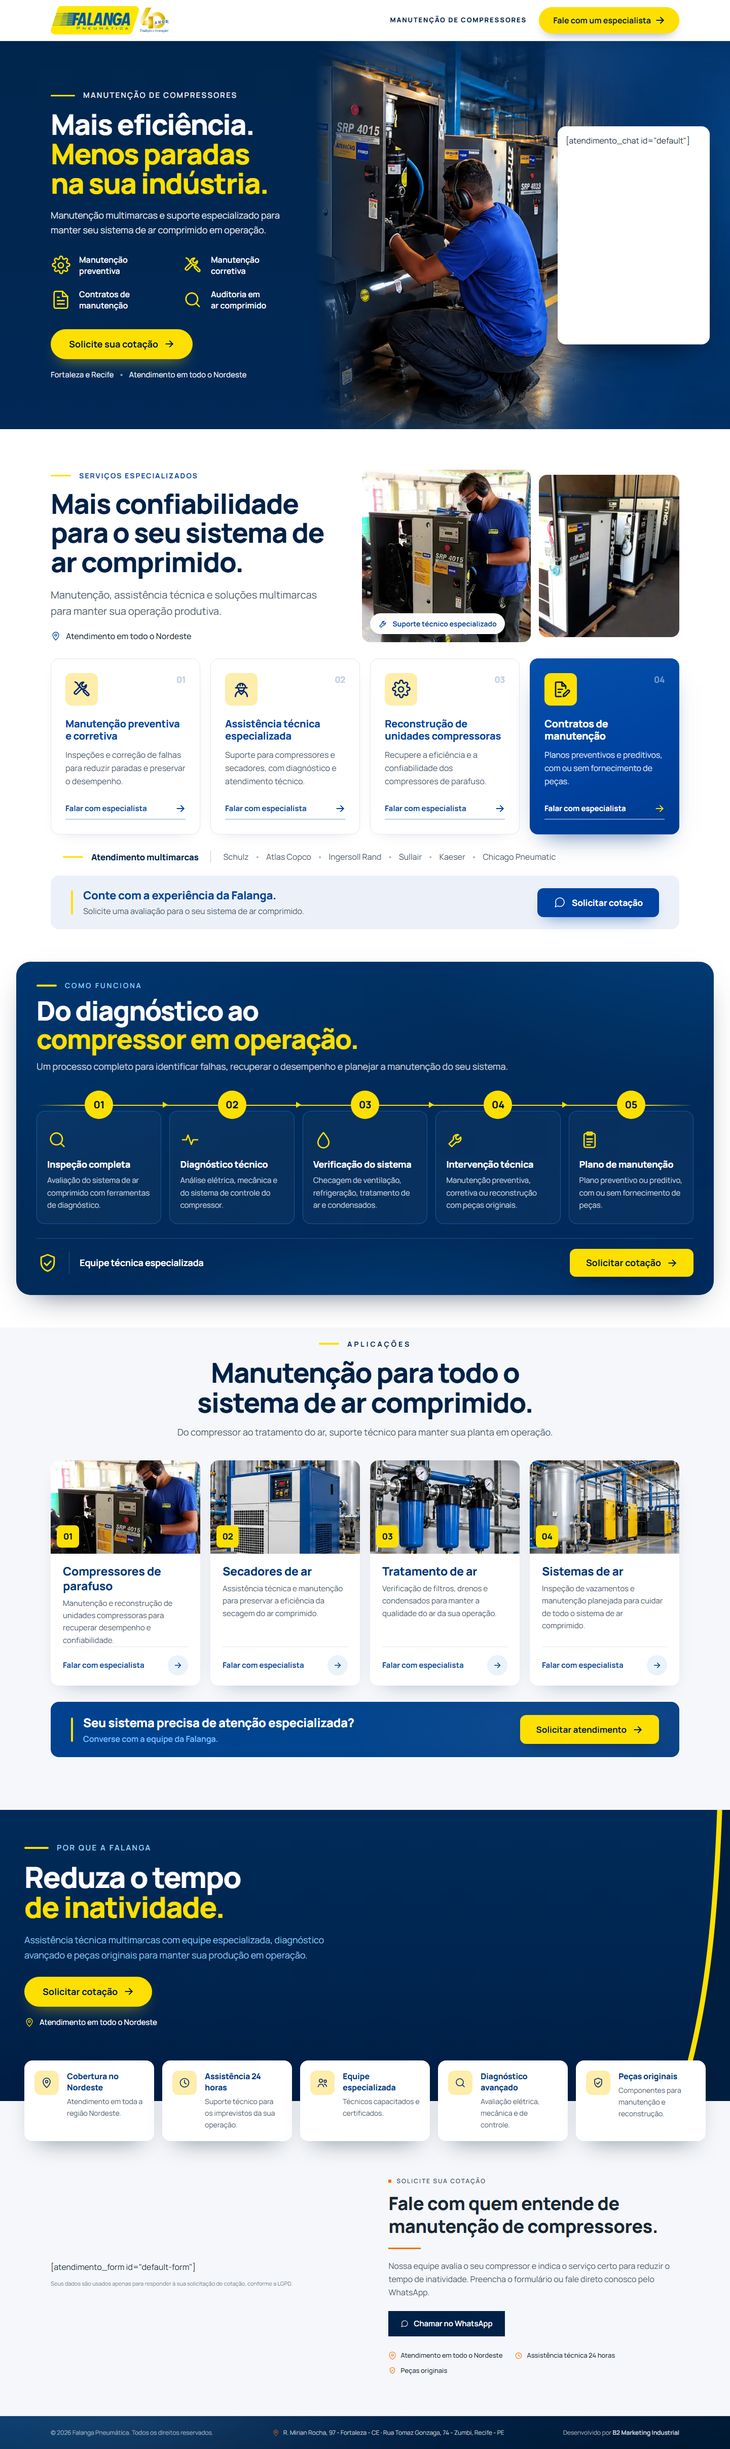
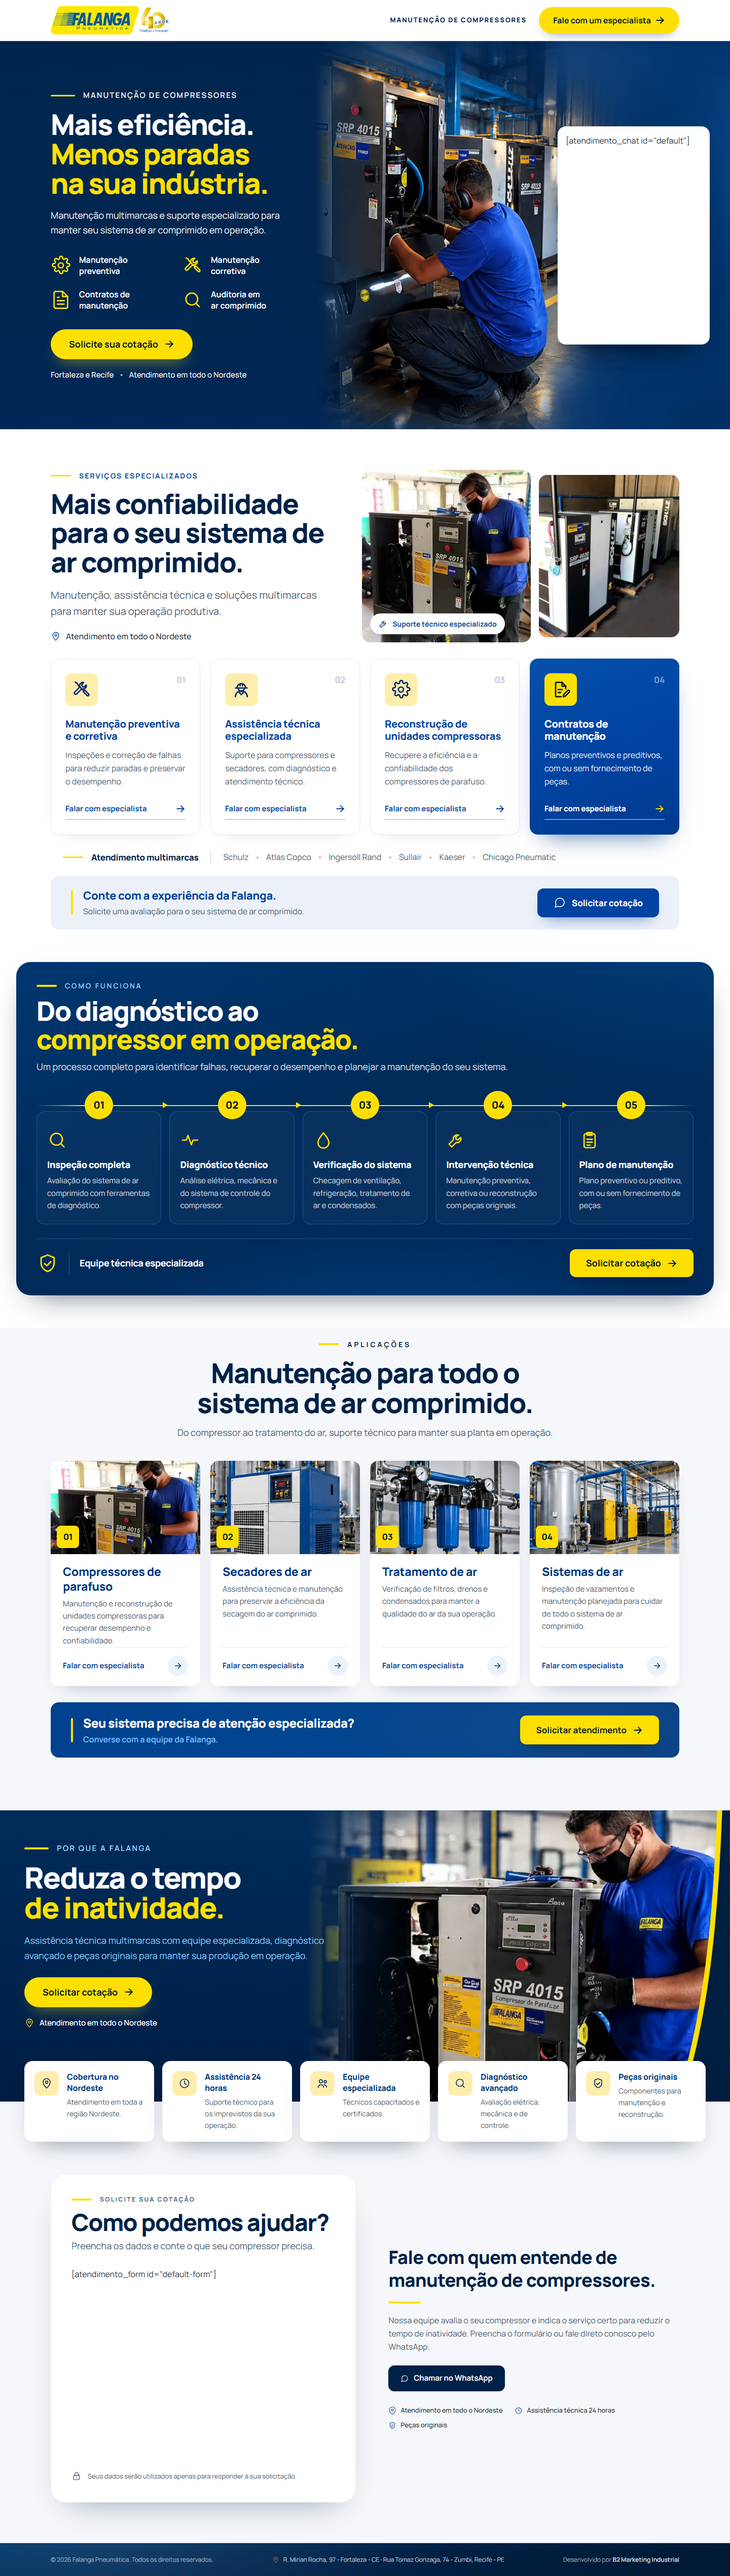
feat: card de cotação conforme o mockup, com o espaço do formulário vazio
A coluna do formulário vira um card branco com "Solicite sua cotação", "Como
podemos ajudar?", o subtítulo e a nota com cadeado. O espaço do formulário
fica vazio, só com o shortcode que o plugin do WordPress troca pelo
formulário, como pedido. A coluna de texto perde o selo repetido e passa às
cores da Falanga. Grid, ordem e cotacao-whatsapp seguem os do padrão.

diff --git a/src/data/content.ts b/src/data/content.ts
@@ -90,13 +90,22 @@ export const quote = {
     { icon: 'clock', label: 'Assistência técnica 24 horas' },
     { icon: 'shield', label: 'Peças originais' },
   ],
+  /**
+   * Cabeçalho do card do formulário (mockup do cliente, 21/10/2026). O `eyebrow` acima
+   * vai no card, e não mais na coluna de texto, para não aparecer duas vezes lado a lado.
+   */
+  form: {
+    title: 'Como podemos ajudar?',
+    text: 'Preencha os dados e conte o que seu compressor precisa.',
+  },
   /** Nota de LGPD exibida abaixo do formulário. */
-  lgpd: `Seus dados são usados apenas para responder à sua solicitação de cotação, conforme a LGPD.`,
+  lgpd: `Seus dados serão utilizados apenas para responder à sua solicitação.`,
 } as const satisfies {
   eyebrow: string
   title: string
   text: string
   trust: readonly [TrustItem, TrustItem, TrustItem]
+  form: { title: string; text: string }
   lgpd: string
 }
 

diff --git a/src/data/icons.ts b/src/data/icons.ts
@@ -64,6 +64,8 @@ export const iconPaths = {
   /** Escudo com check: selo de equipe especializada (mockup Falanga, 21/10/2026). */
   'shield-check':
     '<path d="M12 3 19 5.8v5.6c0 4.5-3 7.8-7 9.3-4-1.5-7-4.8-7-9.3V5.8Z"/><path d="m8.7 12.2 2.4 2.4 4.3-4.5"/>',
+  /** Cadeado: nota de privacidade do formulário (mockup Falanga, 21/10/2026). */
+  lock: '<rect x="5" y="10.5" width="14" height="10" rx="2"/><path d="M8 10.5V7.5a4 4 0 0 1 8 0v3M12 14.5v2"/>',
   clock: '<circle cx="12" cy="12" r="8.5"/><path d="M12 7v5.2l3.5 2"/>',
   zap: '<path d="M13 3 6 13.5h5L10 21l7.5-10.5h-5L13 3Z"/>',
   'map-pin':

diff --git a/docs/BRIEFING.md b/docs/BRIEFING.md
@@ -233,6 +233,18 @@ Junto, dois ajustes:
 - O `npm run ficha` voltou a aceitar ícones com hífen (`map-pin`, `shield-check`). A correção da regex tinha saído junto com a reversão anterior.
 - As setas que rolam os cards no mobile passaram a funcionar. O script da biblioteca procurava `[data-why]`, que nenhum elemento tinha.
 
+## Desvios do padrão — cotação (21/10/2026)
+
+A coluna do formulário da seção de cotação (`src/components/QuoteForm.astro`, estrutura fixa) foi refeita conforme o mockup do card de cotação, que o cliente enviou em 21/10/2026. O pedido foi para deixar **o espaço do formulário vazio**: nele entra só o shortcode, que o plugin de atendimento do WordPress troca pelo formulário. Na prévia da Vercel aparece o texto do shortcode.
+
+| O que o mockup pedia                                                                    | Como entrou                                                                                                                 | Regra do padrão afetada                   |
+| --------------------------------------------------------------------------------------- | --------------------------------------------------------------------------------------------------------------------------- | ----------------------------------------- |
+| Card branco com "Solicite sua cotação", "Como podemos ajudar?" e o subtítulo            | igual; o título do card é `h3`, e o `h2` da seção continua na coluna de texto                                               | 4.1.4                                     |
+| Campos do formulário e botão "Solicitar cotação"                                        | **não entraram** — o espaço fica vazio para o shortcode do plugin; o card não define fonte, cor nem alinhamento do conteúdo | regra 4 — formulário é sempre o shortcode |
+| Nota com cadeado "Seus dados serão utilizados apenas para responder à sua solicitação." | igual, em `quote.lgpd`; o link de privacidade entra quando `site.privacyUrl` existir                                        | 10.2 — nota de LGPD                       |
+
+A coluna de texto perdeu o selo "Solicite sua cotação", que passou para o card e apareceria duas vezes lado a lado. O traço e os ícones dos selos saíram do laranja para o amarelo e o azul da Falanga, e o botão do WhatsApp ganhou cantos arredondados. Grid, ordem das colunas e o CTA `cotacao-whatsapp` seguem os do padrão, e a assinatura A8 não precisou mudar.
+
 ## Estado da entrega
 
 - [x] Primeira versão de pé (`npm run check:lp:rascunho` passa) em: 21/10/2026

diff --git a/docs/FICHA-LP.md b/docs/FICHA-LP.md
@@ -137,6 +137,10 @@ conteudo:
         label: Assistência técnica 24 horas
       - icon: shield
         label: Peças originais
+    form:
+      title: Como podemos ajudar?
+      text: Preencha os dados e conte o que seu compressor precisa.
+    lgpd: Seus dados serão utilizados apenas para responder à sua solicitação.
 
 blocos:
   linhas:
